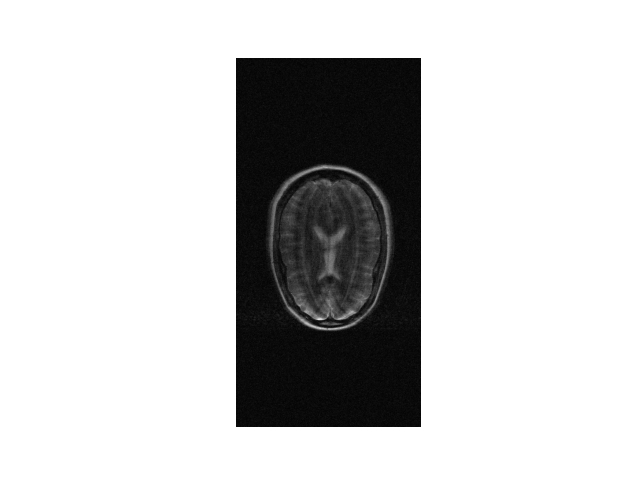
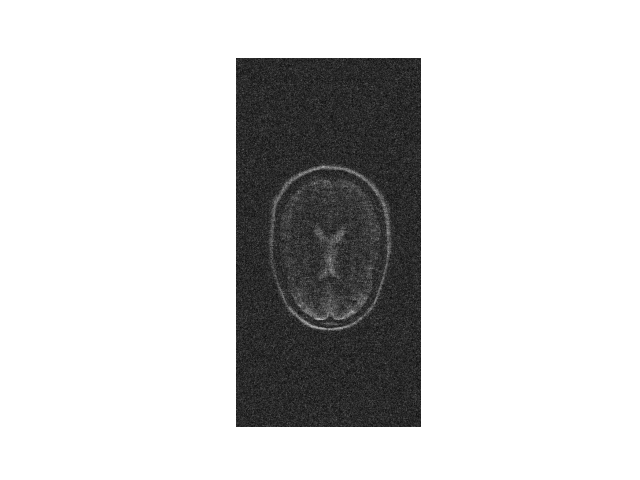
noise level experiments

Changed region(s): [[0.3438, 0.0938, 0.6562, 0.9062]]

diff --git a/my_CDLNet/sense.py b/my_CDLNet/sense.py
@@ -12,7 +12,8 @@ from functools import partial
 import argparse
 
 parser = argparse.ArgumentParser()
-parser.add_argument("--kspace_path", type =str, help="Corresponding path where kspace data can be found", default = None)
+parser.add_argument("--kspace_path", type = str, help="Corresponding path where kspace data can be found", default = None)
+parser.add_argument("--noise_level", type = float, help="Std deviation of injected noise into kspace data", default = 0.)
 
 # This will implement SENSE, which essentially performs conjugate gradient on the normal equations for MRI
 
@@ -52,12 +53,13 @@ def main(args):
     # Send to GPU
     smaps = smaps.to(device)
     # Scale kspace and send to GPU
-    kspace = kspace.to(device)*1e3
+    kspace = kspace.to(device)*2e2
     mask = mask.to(device)
     # Mask kspace
     kspace_masked = mask * kspace
     # Try adding some noise to kspace
-    kspace_masked = kspace_masked + 0.05*torch.randn_like(kspace_masked)
+    noise_level = args.noise_level
+    kspace_masked = kspace_masked + noise_level*torch.randn_like(kspace_masked)
     
 
     gnd_truth = (mri_decoding(kspace, torch.ones(smaps.shape[1], smaps.shape[2], device = device), smaps))
